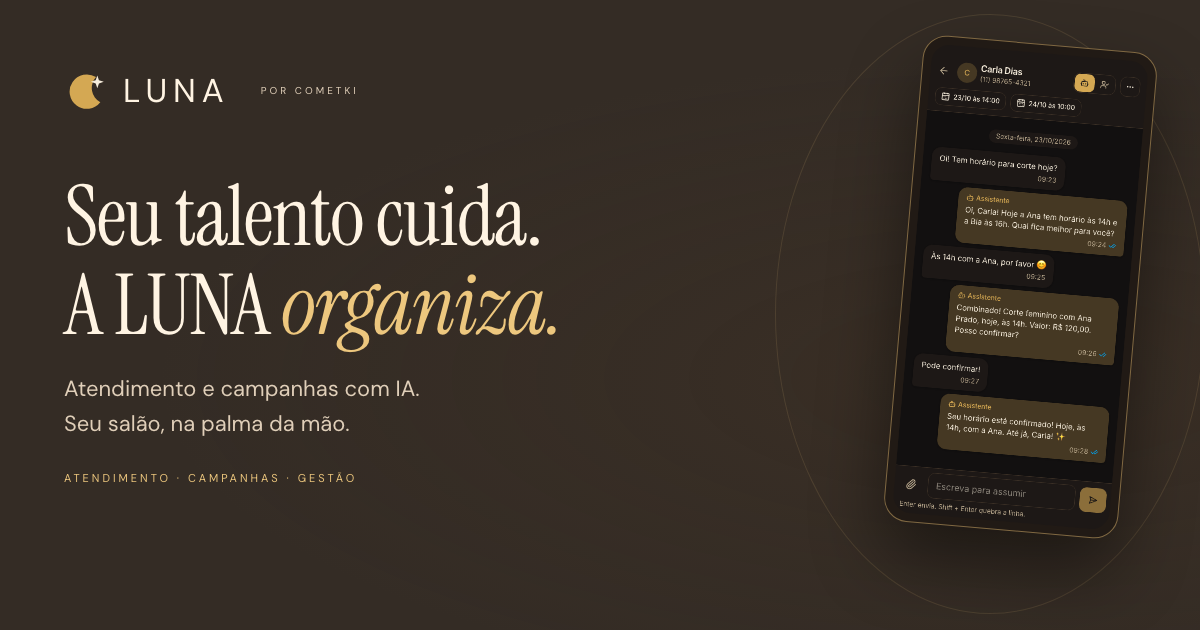
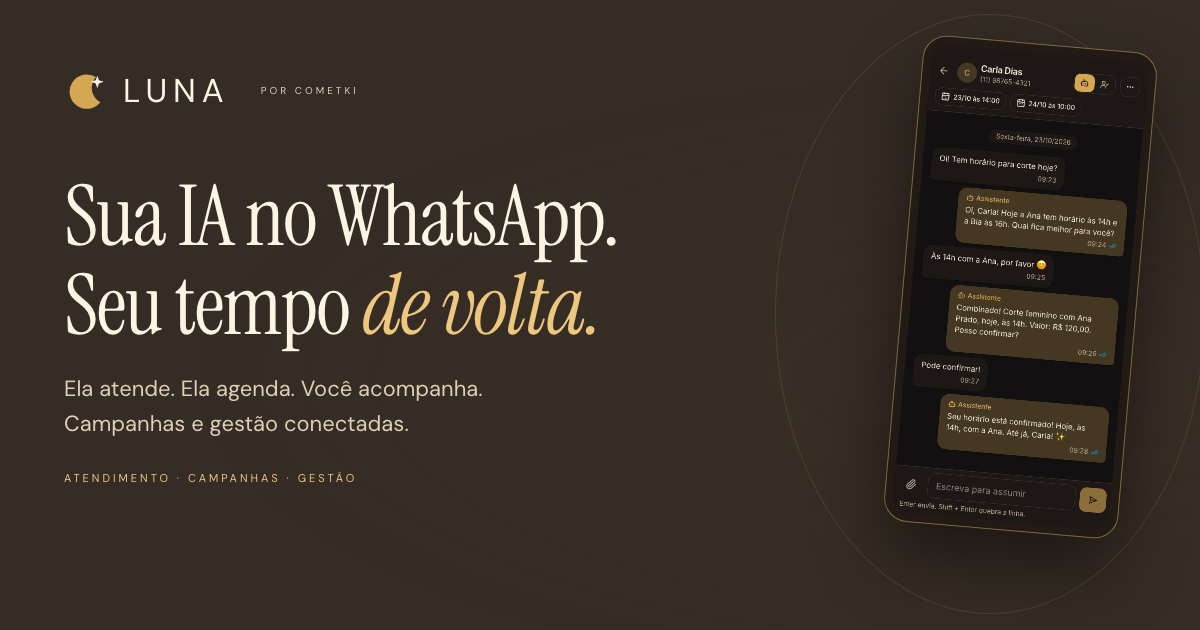
feat: reforça autonomia da IA no WhatsApp e nas campanhas

Changed region(s): [[0.0617, 0.2714, 0.5242, 0.573], [0.0308, 0.6032, 0.4008, 0.6333], [0.0617, 0.6635, 0.3392, 0.6937]]

diff --git a/index.html b/index.html
@@ -11,15 +11,15 @@
   <meta property="og:locale" content="pt_BR">
   <meta property="og:site_name" content="LUNA · Cometki">
   <meta property="og:url" content="https://luna.cometki.app/">
-  <meta property="og:title" content="Seu talento cuida. A LUNA organiza.">
+  <meta property="og:title" content="Sua IA no WhatsApp. Seu tempo de volta.">
   <meta property="og:description" content="Atenda, agende e convide clientes a voltar com IA no WhatsApp. A gestão do salão na palma da mão.">
-  <meta property="og:image" content="https://luna.cometki.app/assets/imagens/compartilhamento.png?v=1.1.0">
+  <meta property="og:image" content="https://luna.cometki.app/assets/imagens/compartilhamento.png?v=1.1.1">
   <meta property="og:image:alt" content="LUNA: inteligência artificial e gestão para o seu salão. Uma solução Cometki.">
   <meta name="twitter:card" content="summary_large_image">
   <link rel="icon" href="assets/imagens/simbolo.svg" type="image/svg+xml">
   <link rel="preload" href="assets/fontes/dm-sans.woff2" as="font" type="font/woff2" crossorigin>
   <link rel="preload" href="assets/fontes/instrument-serif.woff2" as="font" type="font/woff2" crossorigin>
-  <link rel="stylesheet" href="assets/css/site.css?v=1.1.0">
+  <link rel="stylesheet" href="assets/css/site.css?v=1.1.1">
   <script src="assets/js/configuracao.js" defer></script>
   <script src="assets/js/site.js" defer></script>
 </head>
@@ -60,10 +60,10 @@
   <main id="conteudo">
     <section class="abertura limite" id="inicio" aria-labelledby="titulo">
       <div class="abertura-texto">
-        <p class="sobretitulo"><span class="ponto"></span> INTELIGÊNCIA PARA O SEU SALÃO</p>
-        <h1 id="titulo">Seu talento cuida. <br>A LUNA <em>organiza.</em></h1>
-        <p class="introducao">Uma assistente com IA no WhatsApp. <br>Uma gestão que acompanha seu ritmo.</p>
-        <p class="abertura-descricao">Atenda, agende e convide clientes a voltar. Do WhatsApp ao financeiro, a LUNA conecta a rotina do seu salão.</p>
+        <p class="sobretitulo"><span class="ponto"></span> LUNA · SUA ASSISTENTE AUTÔNOMA COM IA</p>
+        <h1 id="titulo">Sua IA no WhatsApp. <br>Seu tempo <em>de volta.</em></h1>
+        <p class="introducao">Atendimento automático. Agenda conectada. <br>Campanhas que continuam a conversa.</p>
+        <p class="abertura-descricao">Depois de configurada, a LUNA responde no WhatsApp e conduz agendamentos com IA, mesmo quando você não está online.</p>
         <a class="novidade-hero" href="#campanhas"><span>NOVO</span> Campanhas com IA, da oferta ao agendamento <svg class="icone" aria-hidden="true"><use href="#seta"/></svg></a>
         <div class="abertura-acoes">
           <a class="botao contato acao-produto" id="cta-principal" href="https://wa.me/5567992938193?text=Ol%C3%A1!%20Quero%20conhecer%20a%20LUNA%20para%20o%20meu%20sal%C3%A3o." target="_blank" rel="noopener noreferrer">Quero conhecer a LUNA <svg class="icone" aria-hidden="true"><use href="#seta"/></svg></a>
@@ -75,11 +75,11 @@
         <div class="orbita" aria-hidden="true"></div>
         <div class="mini-agenda">
           <div class="barra-janela"><span class="pontos-janela" aria-hidden="true">● ● ●</span><span>LUNA / Agenda</span><svg class="icone" aria-hidden="true"><use href="#agenda"/></svg></div>
-          <img src="assets/imagens/agenda-desktop.webp?v=1.1.0" width="1440" height="960" alt="Agenda real da LUNA, no tema Élevé, com horários de Ana e Bia." fetchpriority="high">
+          <img src="assets/imagens/agenda-desktop.webp?v=1.1.1" width="1440" height="960" alt="Agenda real da LUNA, no tema Élevé, com horários de Ana e Bia." fetchpriority="high">
         </div>
         <figure class="telefone telefone-hero">
           <div class="telefone-topo" aria-hidden="true"><span>9:41</span><span class="ilha"></span><span>••• ▰</span></div>
-          <img src="assets/imagens/conversas-celular.webp?v=1.1.0" width="390" height="844" alt="Tela real da LUNA: a assistente confirma um corte com Ana pelo WhatsApp." fetchpriority="high">
+          <img src="assets/imagens/conversas-celular.webp?v=1.1.1" width="390" height="844" alt="Tela real da LUNA: a assistente confirma um corte com Ana pelo WhatsApp." fetchpriority="high">
           <div class="telefone-base" aria-hidden="true"></div>
         </figure>
         <div class="selo-ia"><span class="selo-icone"><svg class="icone" aria-hidden="true"><use href="#brilho"/></svg></span><div>Seu salão, presente.<small>Atendimento automático com IA</small></div><span class="ponto"></span></div>
@@ -100,15 +100,15 @@
     <section class="secao limite inteligencia" id="inteligencia" aria-labelledby="titulo-ia">
       <div class="inteligencia-abertura">
         <div><p class="sobretitulo">ATENDIMENTO AUTOMÁTICO COM IA</p><h2 id="titulo-ia">O salão fecha. <br>A conversa <em>continua.</em></h2></div>
-        <p class="texto-secao">Alguém lembra do corte à noite. A LUNA responde no WhatsApp, consulta os horários e ajuda a agendar. Você acompanha tudo, sem precisar estar em cada conversa.</p>
+        <p class="texto-secao">Você define serviços, preços, horários e o jeito de atender. A partir daí, a LUNA conversa no WhatsApp, consulta a agenda e conduz o atendimento automaticamente. Sem você precisar responder a cada mensagem.</p>
       </div>
       <div class="ia-composicao">
         <div class="ia-explicacao">
           <span class="etiqueta"><svg class="icone" aria-hidden="true"><use href="#brilho"/></svg> IA conectada à sua operação</span>
-          <h3>Mais que responder. <br>Ela ajuda a resolver.</h3>
+          <h3>Ela atende. Ela agenda. <br>Você acompanha.</h3>
           <ol class="passos-ia">
             <li><span>01</span><div><h4>Entende a conversa</h4><p>Responde sobre serviços, preços e horários. Entende áudios, imagens e o contexto do atendimento.</p></div></li>
-            <li><span>02</span><div><h4>Consulta a agenda de verdade</h4><p>Oferece horários disponíveis, agenda, remarca e cancela após a confirmação de quem está agendando.</p></div></li>
+            <li><span>02</span><div><h4>Consulta a agenda de verdade</h4><p>Conduz agendamentos, remarcações e cancelamentos sem operação manual da equipe, após a confirmação de quem está agendando.</p></div></li>
             <li><span>03</span><div><h4>Trabalha junto com a equipe</h4><p>Você acompanha tudo e assume quando quiser. Se precisar de uma pessoa, a LUNA chama.</p></div></li>
           </ol>
           <a class="link-texto" href="#conhecer">Quero isso no meu salão <svg class="icone" aria-hidden="true"><use href="#seta"/></svg></a>
@@ -116,7 +116,7 @@
         <figure class="ia-print">
           <div class="cabecalho-print"><span class="ponto"></span><span>ATENDIMENTO AUTOMÁTICO</span><svg class="icone" aria-hidden="true"><use href="#brilho"/></svg></div>
           <button class="ampliavel" data-imagem="conversas" data-titulo="Atendimento com a assistente no WhatsApp" aria-label="Ampliar tela real do atendimento com IA">
-            <picture><source media="(max-width: 700px)" srcset="assets/imagens/conversas-celular.webp?v=1.1.0"><img src="assets/imagens/conversas-desktop.webp?v=1.1.0" alt="Painel de conversas do LUNA, com a assistente confirmando um agendamento e a opção de a equipe assumir." width="1440" height="960" loading="lazy"></picture>
+            <picture><source media="(max-width: 700px)" srcset="assets/imagens/conversas-celular.webp?v=1.1.1"><img src="assets/imagens/conversas-desktop.webp?v=1.1.1" alt="Painel de conversas do LUNA, com a assistente confirmando um agendamento e a opção de a equipe assumir." width="1440" height="960" loading="lazy"></picture>
             <span class="ampliar"><svg class="icone" aria-hidden="true"><use href="#ampliar"/></svg><span>Ampliar tela</span></span>
           </button>
           <figcaption>Print real da LUNA. Conversa ilustrativa em ambiente de demonstração.</figcaption>
@@ -133,18 +133,18 @@
       <div class="limite">
         <div class="campanhas-abertura">
           <div><p class="sobretitulo"><span class="etiqueta-novo">NOVO</span> CAMPANHAS COM INTELIGÊNCIA ARTIFICIAL</p><h2 id="titulo-campanhas">Dê um bom motivo <br>para <em>voltar.</em></h2></div>
-          <p class="texto-secao">Uma hidratação para quem não vem há um tempo. Um pacote para uma ocasião especial. Crie a oferta e deixe a LUNA ajudar a transformar o convite em horário marcado.</p>
+          <p class="texto-secao">Você define a oferta, escolhe o público e ativa a campanha. A LUNA faz os envios pelo WhatsApp e usa IA para conduzir a conversa de quem se interessou até o agendamento.</p>
         </div>
         <div class="campanhas-grade">
           <figure class="campanhas-print">
             <div class="cabecalho-print"><svg class="icone" aria-hidden="true"><use href="#brilho"/></svg><span>DA IDEIA À CONVERSA</span></div>
-            <button class="ampliavel" data-imagem="campanhas" data-titulo="Criação de campanha na LUNA" aria-label="Ampliar print real da criação de campanha"><picture><source media="(max-width: 700px)" srcset="assets/imagens/campanhas-celular.webp?v=1.1.0"><img src="assets/imagens/campanhas-desktop.webp?v=1.1.0" width="1440" height="960" alt="Criação de campanha na LUNA: serviço, desconto e texto da oferta, no tema Élevé." loading="lazy"></picture><span class="ampliar"><svg class="icone" aria-hidden="true"><use href="#ampliar"/></svg><span>Ampliar tela</span></span></button>
+            <button class="ampliavel" data-imagem="campanhas" data-titulo="Criação de campanha na LUNA" aria-label="Ampliar print real da criação de campanha"><picture><source media="(max-width: 700px)" srcset="assets/imagens/campanhas-celular.webp?v=1.1.1"><img src="assets/imagens/campanhas-desktop.webp?v=1.1.1" width="1440" height="960" alt="Criação de campanha na LUNA: serviço, desconto e texto da oferta, no tema Élevé." loading="lazy"></picture><span class="ampliar"><svg class="icone" aria-hidden="true"><use href="#ampliar"/></svg><span>Ampliar tela</span></span></button>
             <figcaption>Tela real no tema Élevé · Oferta fictícia de demonstração</figcaption>
           </figure>
           <ol class="jornada-campanha">
             <li><span>01</span><div><h3>O convite certo, para cada público</h3><p>Escolha clientes por última visita, serviço realizado ou uma lista sua. Defina serviços, pacote e desconto.</p></div></li>
             <li><span>02</span><div><h3>Sua marca, com uma ajuda da IA</h3><p>Personalize a abertura da mensagem e gere fundos para a arte com IA. Use os modelos da LUNA ou envie sua própria imagem.</p></div></li>
-            <li><span>03</span><div><h3>Do “quero” ao horário marcado</h3><p>O botão “Quero agendar” inicia a conversa. A assistente reconhece a oferta, consulta a agenda e leva o desconto até o caixa.</p></div></li>
+            <li><span>03</span><div><h3>Do “quero” ao horário marcado</h3><p>O botão “Quero agendar” inicia o atendimento automático. A IA reconhece a oferta, consulta a agenda e leva o desconto até o caixa.</p></div></li>
           </ol>
         </div>
         <div class="campanhas-fecho"><div><strong>Envie com cuidado. Acompanhe de perto.</strong><p>Teste no seu WhatsApp antes de ativar. Os envios seguem um ritmo definido e respeitam pedidos de saída. Veja respostas, agendamentos, comparecimentos e receita vinculada à campanha.</p></div><a class="botao botao-escuro contato acao-produto" href="https://wa.me/5567992938193?text=Ol%C3%A1!%20Quero%20conhecer%20a%20LUNA%20para%20o%20meu%20sal%C3%A3o." target="_blank" rel="noopener noreferrer">Conhecer as campanhas <svg class="icone" aria-hidden="true"><use href="#seta"/></svg></a></div>
@@ -153,7 +153,7 @@
 
     <section class="secao produto" id="por-dentro" aria-labelledby="titulo-produto">
       <div class="limite">
-        <div class="cabecalho-secao"><p class="sobretitulo">GESTÃO CONECTADA, DE PONTA A PONTA</p><h2 id="titulo-produto">Tudo conversa. <br>Seu dia <em>flui.</em></h2><p class="texto-secao">A IA abre a conversa. A LUNA conecta o restante da rotina.</p></div>
+        <div class="cabecalho-secao"><p class="sobretitulo">GESTÃO CONECTADA, DE PONTA A PONTA</p><h2 id="titulo-produto">Tudo conversa. <br>Seu dia <em>flui.</em></h2><p class="texto-secao">WhatsApp, IA e campanhas na frente. Agenda, financeiro e equipe conectados por trás.</p></div>
         <div class="abas" role="tablist" aria-label="Explorar recursos da LUNA">
           <button id="aba-agenda" role="tab" aria-selected="true" aria-controls="painel-agenda" tabindex="0"><svg class="icone" aria-hidden="true"><use href="#agenda"/></svg> Agenda</button>
           <button id="aba-financeiro" role="tab" aria-selected="false" aria-controls="painel-financeiro" tabindex="-1"><svg class="icone" aria-hidden="true"><use href="#carteira"/></svg> Financeiro</button>
@@ -162,19 +162,19 @@
         </div>
         <div class="painel-recurso" id="painel-agenda" role="tabpanel" aria-labelledby="aba-agenda" tabindex="0">
           <div class="recurso-texto"><span class="numero-editorial" aria-hidden="true">01</span><h3>Cada horário, <br>no seu lugar.</h3><p>Agenda por dia, semana ou lista. Veja quem atende, acompanhe cada status e organize os horários da equipe.</p><ul class="lista-check"><li>Disponibilidade integrada à assistente</li><li>Folgas e bloqueios por profissional</li><li>Vários serviços no mesmo agendamento</li></ul></div>
-          <figure class="recurso-print"><button class="ampliavel" data-imagem="agenda" data-titulo="Agenda integrada da LUNA" aria-label="Ampliar print da agenda"><picture><source media="(max-width: 700px)" srcset="assets/imagens/agenda-celular.webp?v=1.1.0"><img src="assets/imagens/agenda-desktop.webp?v=1.1.0" alt="Agenda diária da LUNA com profissionais, horários e status dos agendamentos." width="1440" height="960" loading="lazy"></picture><span class="ampliar"><svg class="icone" aria-hidden="true"><use href="#ampliar"/></svg><span>Ampliar tela</span></span></button><figcaption>Tela real · Tema Élevé · Dados de demonstração</figcaption></figure>
+          <figure class="recurso-print"><button class="ampliavel" data-imagem="agenda" data-titulo="Agenda integrada da LUNA" aria-label="Ampliar print da agenda"><picture><source media="(max-width: 700px)" srcset="assets/imagens/agenda-celular.webp?v=1.1.1"><img src="assets/imagens/agenda-desktop.webp?v=1.1.1" alt="Agenda diária da LUNA com profissionais, horários e status dos agendamentos." width="1440" height="960" loading="lazy"></picture><span class="ampliar"><svg class="icone" aria-hidden="true"><use href="#ampliar"/></svg><span>Ampliar tela</span></span></button><figcaption>Tela real · Tema Élevé · Dados de demonstração</figcaption></figure>
         </div>
         <div class="painel-recurso" id="painel-financeiro" role="tabpanel" aria-labelledby="aba-financeiro" tabindex="0" hidden>
           <div class="recurso-texto"><span class="numero-editorial" aria-hidden="true">02</span><h3>Clareza para <br>decidir melhor.</h3><p>Veja o que entrou, o que falta receber e as contas que estão para vencer. Entenda o resultado com as taxas de cartão consideradas.</p><ul class="lista-check"><li>Contas a pagar e despesas recorrentes</li><li>Taxas de cartão e previsão de repasses</li><li>Relatórios de recebimentos e comissões</li></ul></div>
-          <figure class="recurso-print"><button class="ampliavel" data-imagem="financeiro" data-titulo="Financeiro e caixa da LUNA" aria-label="Ampliar print do financeiro"><picture><source media="(max-width: 700px)" srcset="assets/imagens/financeiro-celular.webp?v=1.1.0"><img src="assets/imagens/financeiro-desktop.webp?v=1.1.0" alt="Painel financeiro real da LUNA com resultado, recebimentos e despesas." width="1440" height="960" loading="lazy"></picture><span class="ampliar"><svg class="icone" aria-hidden="true"><use href="#ampliar"/></svg><span>Ampliar tela</span></span></button><figcaption>Tela real · Tema Élevé · Dados de demonstração</figcaption></figure>
+          <figure class="recurso-print"><button class="ampliavel" data-imagem="financeiro" data-titulo="Financeiro e caixa da LUNA" aria-label="Ampliar print do financeiro"><picture><source media="(max-width: 700px)" srcset="assets/imagens/financeiro-celular.webp?v=1.1.1"><img src="assets/imagens/financeiro-desktop.webp?v=1.1.1" alt="Painel financeiro real da LUNA com resultado, recebimentos e despesas." width="1440" height="960" loading="lazy"></picture><span class="ampliar"><svg class="icone" aria-hidden="true"><use href="#ampliar"/></svg><span>Ampliar tela</span></span></button><figcaption>Tela real · Tema Élevé · Dados de demonstração</figcaption></figure>
         </div>
         <div class="painel-recurso" id="painel-equipe" role="tabpanel" aria-labelledby="aba-equipe" tabindex="0" hidden>
           <div class="recurso-texto"><span class="numero-editorial" aria-hidden="true">03</span><h3>Contas claras. <br>Equipe tranquila.</h3><p>Comissões calculadas no fechamento, com percentuais por serviço e profissional. Mais clareza na hora de fazer o acerto.</p><ul class="lista-check"><li>Comissões, adiantamentos e saldo a pagar</li><li>Extrato do pagamento em PDF</li><li>Cada profissional acompanha seus valores</li></ul></div>
-          <figure class="recurso-print"><button class="ampliavel" data-imagem="equipe" data-titulo="Comissões e pagamento da equipe" aria-label="Ampliar print das comissões"><picture><source media="(max-width: 700px)" srcset="assets/imagens/equipe-celular.webp?v=1.1.0"><img src="assets/imagens/equipe-desktop.webp?v=1.1.0" alt="Tela de pagamento da equipe com comissões e valores a receber por profissional." width="1440" height="960" loading="lazy"></picture><span class="ampliar"><svg class="icone" aria-hidden="true"><use href="#ampliar"/></svg><span>Ampliar tela</span></span></button><figcaption>Tela real · Tema Élevé · Dados de demonstração</figcaption></figure>
+          <figure class="recurso-print"><button class="ampliavel" data-imagem="equipe" data-titulo="Comissões e pagamento da equipe" aria-label="Ampliar print das comissões"><picture><source media="(max-width: 700px)" srcset="assets/imagens/equipe-celular.webp?v=1.1.1"><img src="assets/imagens/equipe-desktop.webp?v=1.1.1" alt="Tela de pagamento da equipe com comissões e valores a receber por profissional." width="1440" height="960" loading="lazy"></picture><span class="ampliar"><svg class="icone" aria-hidden="true"><use href="#ampliar"/></svg><span>Ampliar tela</span></span></button><figcaption>Tela real · Tema Élevé · Dados de demonstração</figcaption></figure>
         </div>
         <div class="painel-recurso" id="painel-clientes" role="tabpanel" aria-labelledby="aba-clientes" tabindex="0" hidden>
           <div class="recurso-texto"><span class="numero-editorial" aria-hidden="true">04</span><h3>Cada visita, <br>uma história.</h3><p>Preferências, histórico e informações de clientes perto de quem atende. Um cuidado que continua entre uma visita e outra.</p><ul class="lista-check"><li>Histórico de agendamentos e atendimentos</li><li>Fotos de referência e antes e depois, com análise da IA</li><li>Importação e exportação por planilha</li></ul></div>
-          <figure class="recurso-print"><button class="ampliavel" data-imagem="clientes" data-titulo="Clientes e histórico de atendimento" aria-label="Ampliar print de clientes"><picture><source media="(max-width: 700px)" srcset="assets/imagens/clientes-celular.webp?v=1.1.0"><img src="assets/imagens/clientes-desktop.webp?v=1.1.0" alt="Cadastro e busca de clientes da LUNA no tema Élevé." width="1440" height="960" loading="lazy"></picture><span class="ampliar"><svg class="icone" aria-hidden="true"><use href="#ampliar"/></svg><span>Ampliar tela</span></span></button><figcaption>Tela real · Tema Élevé · Dados de demonstração</figcaption></figure>
+          <figure class="recurso-print"><button class="ampliavel" data-imagem="clientes" data-titulo="Clientes e histórico de atendimento" aria-label="Ampliar print de clientes"><picture><source media="(max-width: 700px)" srcset="assets/imagens/clientes-celular.webp?v=1.1.1"><img src="assets/imagens/clientes-desktop.webp?v=1.1.1" alt="Cadastro e busca de clientes da LUNA no tema Élevé." width="1440" height="960" loading="lazy"></picture><span class="ampliar"><svg class="icone" aria-hidden="true"><use href="#ampliar"/></svg><span>Ampliar tela</span></span></button><figcaption>Tela real · Tema Élevé · Dados de demonstração</figcaption></figure>
         </div>
         <aside class="novidades-financeiro" aria-labelledby="titulo-contas">
           <div><p class="sobretitulo">MAIS CLAREZA NAS CONTAS</p><h3 id="titulo-contas">O financeiro <em>também evoluiu.</em></h3></div>
@@ -193,7 +193,7 @@
           <span class="circulo-mobile" aria-hidden="true"></span>
           <figure class="telefone telefone-mobile">
             <div class="telefone-topo" aria-hidden="true"><span>9:41</span><span class="ilha"></span><span>••• ▰</span></div>
-            <img src="assets/imagens/inicio-celular.webp?v=1.1.0" width="390" height="780" alt="LUNA no celular: resumo do dia, indicadores e próximos agendamentos." loading="lazy">
+            <img src="assets/imagens/inicio-celular.webp?v=1.1.1" width="390" height="780" alt="LUNA no celular: resumo do dia, indicadores e próximos agendamentos." loading="lazy">
             <div class="telefone-base" aria-hidden="true"></div>
           </figure>
           <div class="anotacao-mobile"><svg class="icone" aria-hidden="true"><use href="#celular"/></svg><span>Sua gestão. <br><strong>Onde você estiver.</strong></span></div>
@@ -215,7 +215,7 @@
     <section class="secao limite duvidas" id="duvidas" aria-labelledby="titulo-duvidas">
       <div><p class="sobretitulo">VAMOS CONVERSAR?</p><h2 id="titulo-duvidas">Antes do <br>primeiro <em>“oi”.</em></h2><p class="texto-secao">Algumas respostas para você <br>conhecer melhor a LUNA.</p><a class="link-texto contato" href="https://wa.me/5567992938193?text=Ol%C3%A1!%20Tenho%20uma%20d%C3%BAvida%20sobre%20a%20LUNA." target="_blank" rel="noopener noreferrer">Falar com a Cometki <svg class="icone" aria-hidden="true"><use href="#seta"/></svg></a></div>
       <div class="perguntas">
-        <details open><summary>A assistente atende no WhatsApp do meu salão?<svg class="icone" aria-hidden="true"><use href="#mais"/></svg></summary><p>Sim. Depois da configuração e conexão do número, ela atende no WhatsApp do salão. Usa seus serviços, preços, horários e orientações para conversar com clientes e consultar a disponibilidade da agenda.</p></details>
+        <details open><summary>A LUNA trabalha sozinha?<svg class="icone" aria-hidden="true"><use href="#mais"/></svg></summary><p>Em boa parte da rotina de atendimento, sim. Depois de configurada e conectada ao WhatsApp do salão, a LUNA responde mensagens, entende áudios, consulta horários e conduz agendamentos automaticamente. Também envia confirmações e lembretes. Nas campanhas, você prepara a oferta e ativa; ela cuida dos envios e do atendimento de quem responde. A equipe acompanha e assume quando necessário.</p></details>
         <details><summary>A IA agenda sozinha? Eu continuo no controle?<svg class="icone" aria-hidden="true"><use href="#mais"/></svg></summary><p>A assistente consulta os horários e apresenta uma proposta. O agendamento, a remarcação ou o cancelamento só acontece com a confirmação de quem está agendando. A equipe acompanha as conversas e pode assumir o atendimento a qualquer momento.</p></details>
         <details><summary>Como funcionam as campanhas com IA?<svg class="icone" aria-hidden="true"><use href="#mais"/></svg></summary><p>Você escolhe o público, os serviços, o desconto e o período da oferta. A IA pode personalizar a abertura da mensagem e gerar fundos para a arte. Depois do teste no seu WhatsApp e da ativação, a LUNA envia aos poucos. Quem toca em “Quero agendar” conversa com a assistente, que reconhece a oferta. Você acompanha as respostas e os agendamentos pelo painel.</p></details>
         <details><summary>Funciona no celular e no computador?<svg class="icone" aria-hidden="true"><use href="#mais"/></svg></summary><p>Sim. A LUNA funciona pelo navegador, com interface adaptada a cada tela. No iPhone e no Android, você também pode adicioná-la à tela inicial como aplicativo. É necessário acesso à internet.</p></details>

diff --git a/tests/test_publicacao.py b/tests/test_publicacao.py
@@ -43,7 +43,7 @@ class ConteudoPublico(unittest.TestCase):
         self.assertEqual([x.get('href') for tag, x in elementos
                           if tag == 'link' and x.get('rel') == 'canonical'], [PUBLICA])
         for campo, esperado in [('og:url', PUBLICA),
-                                ('og:image', PUBLICA + 'assets/imagens/compartilhamento.png?v=1.1.0')]:
+                                ('og:image', PUBLICA + 'assets/imagens/compartilhamento.png?v=1.1.1')]:
             self.assertEqual([x.get('content') for tag, x in elementos
                               if tag == 'meta' and x.get('property') == campo], [esperado])
 

diff --git a/docs/atualizacao-comercial-1.1.md b/docs/atualizacao-comercial-1.1.md
@@ -49,3 +49,18 @@ a referência imutável deve ser promovida pelo GitOps conforme
 Deployment não precisam mudar.
 
 Procedência das imagens: [capturas](capturas.md).
+
+## Ênfase na autonomia — revisão 1.1.1
+
+A pedido do usuário, IA e WhatsApp passam para o título principal:
+“Sua IA no WhatsApp. Seu tempo de volta.” A abertura explica que, depois
+de configurada, a LUNA atende e conduz agendamentos mesmo sem o responsável
+online. A seção de IA explica a configuração inicial, o atendimento
+automático, a confirmação de quem agenda e a possibilidade de a equipe assumir.
+
+Nas campanhas, a divisão fica explícita: a pessoa prepara oferta, público
+e ativação; a LUNA realiza os envios e conduz o atendimento com IA. A FAQ
+“A LUNA trabalha sozinha?” reúne essa explicação. A autonomia não é apresentada
+como ausência de configuração, ativação de campanhas ou acompanhamento.
+
+A revisão usa cache `?v=1.1.1` e imagem `homepage-1.1.1`.

diff --git a/docs/validacao.md b/docs/validacao.md
@@ -28,6 +28,11 @@ escureceu o destaque pequeno da seção areia para atingir contraste AA.
 Os testes de navegação e contraste foram repetidos depois dessas correções.
 Não foram enviados contatos pelo WhatsApp nem realizadas chamadas pagas de IA.
 
+A revisão 1.1.1 reforçou a autonomia da IA no título, na abertura, na explicação
+de campanhas e na FAQ. Os 11 testes HTTP e as 11 combinações de navegador/tela
+foram repetidos após a alteração de texto e da imagem de compartilhamento,
+sem falhas. A abertura foi revisada visualmente em 390 e 1440 px.
+
 ## Histórico da primeira versão
 
 Executada em 12/10/2026 sobre o site servido pela imagem Nginx, em ambiente local.
